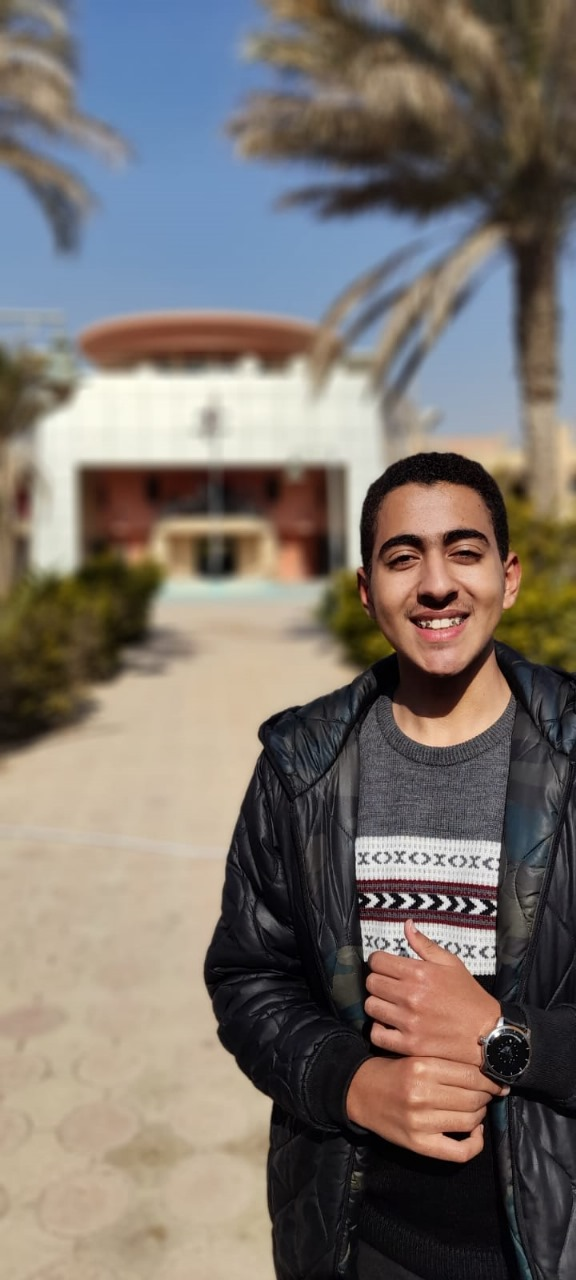
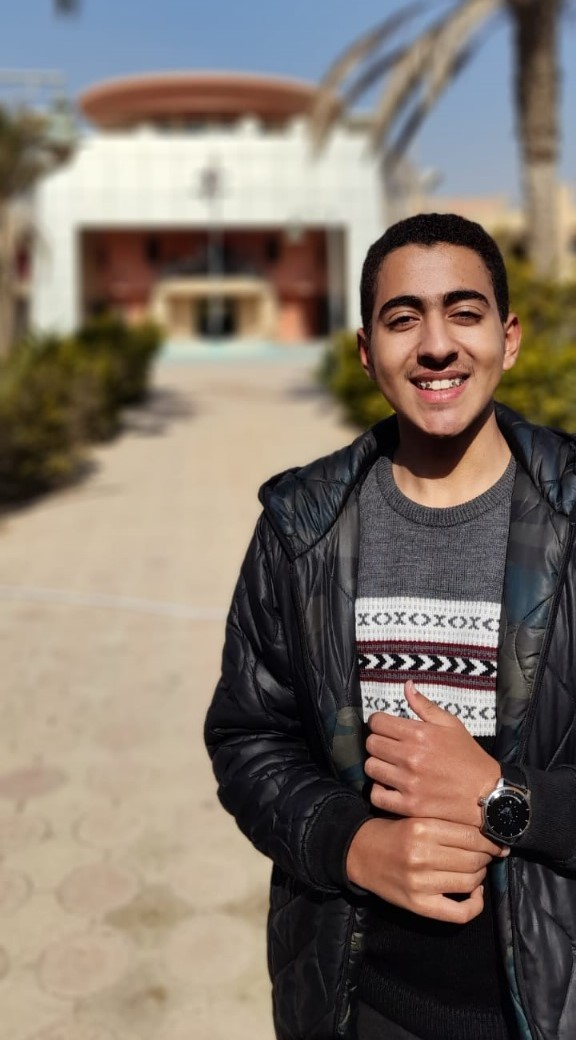
team page

diff --git a/stage/team.html b/stage/team.html
@@ -1,0 +1,266 @@
+<!DOCTYPE html>
+<html lang="en">
+
+<head>
+  <!-- Meta -->
+  <meta charset="UTF-8" />
+  <meta name="author" content="GH" />
+  <meta name="copyright" content="" />
+  <meta name="description" content="The Official website for Gharbiya STEM High School in Tanta" />
+  <meta http-equiv="X-UA-Compatible" content="IE=edge" />
+  <meta name="viewport" content="width=device-width, initial-scale=1.0" />
+  <title>Our Team</title>
+  <!-- Stylesheets -->
+  <link rel="stylesheet" href="./fonts/fontawesome.css" />
+  <link rel="stylesheet" href="./css/bootstrap.min.css" />
+  <link rel="stylesheet" href="./css/libs/aos.css" />
+  <link rel="stylesheet" href="./css/main.css" />
+  <link rel="icon" type="image/x-icon" href="./imgs/logo.png" />
+</head>
+
+<body>
+  <!-- START Navbar -->
+  <nav class="navbar navbar-expand-lg bg-body-tertiary ">
+    <div class="container-fluid">
+      <a class="logo ff-exo-2 navbar-brand fw-bold" href="./">
+        <img src="./imgs/logo.png" alt="Logo" />
+        Gravitational Wave
+      </a>
+      <button class="navbar-toggler" type="button" data-bs-toggle="collapse" data-bs-target="#navbarNavAltMarkup"
+        aria-controls="navbarNavAltMarkup" aria-expanded="false" aria-label="Toggle navigation">
+        <i class="fa-solid fa-bars text-light"></i>
+      </button>
+      <div class="collapse navbar-collapse justify-content-end" id="navbarNavAltMarkup">
+        <div class="navbar-nav links ps-3 ps-md-0">
+          <a class="nav-link  text-decoration-underline" aria-current="page" href="./">Home</a>
+          <a class="nav-link  text-decoration-underline" href="./wave.html">Our Wave</a>
+          <a class="nav-link  text-decoration-underline active" href="./program.html">Our Program</a>
+          <a class="nav-link  text-decoration-underline" href="./team.html">Meet the Team</a>
+        </div>
+      </div>
+    </div>
+  </nav>
+  <!-- END Navbar -->
+
+  <main class="main team">
+    <h2 class="text-center fs-1 mb-5">Meet The Team</h2>
+
+    <div class="container">
+      <div class="row row-cols-1 row-cols-sm-2 row-cols-md-3 g-5">
+        <div class="col">
+          <div class="card bg-transparent">
+            <img src="./imgs/team/madeline-wade.jpeg" class="card-img-top rounded-4" alt="Madeline Wade">
+            <div class="card-body mt-4 primary-bg text-light text-start ps-4 ps-sm-5 rounded-4">
+              <p class="card-title ff-rajdhani fs-4 mb-0">Madeline Wade</p>
+              <p class="card-text ff-rajdhani fs-5">Supervisor</p>
+            </div>
+            <ul class="social-links mt-4 d-flex justify-content-center gap-3">
+              <li>
+                <a href="mailto:" target="_blank" title="Email" rel="noopener noreferrer"><i
+                    class="fa-solid fa-xl fa-envelope"></i></a>
+              </li>
+              <li>
+                <a href="#" target="_blank" title="Linked in" rel="noopener noreferrer"><i
+                    class="fab fa-xl fa-linkedin-in"></i></a>
+              </li>
+              <li>
+                <a href="#" target="_blank" title="Facebook" rel="noopener noreferrer"><i
+                    class="fab fa-xl fa-facebook"></i></a>
+              </li>
+              <li>
+                <a href="#" target="_blank" title="Instagram" rel="noopener noreferrer"><i
+                    class="fab fa-xl fa-instagram"></i></a>
+              </li>
+            </ul>
+          </div>
+        </div>
+        <div class="col">
+          <div class="card bg-transparent">
+            <img src="./imgs/team/omar-shalaby.jpeg" class="card-img-top rounded-4" alt="Omar Shalaby">
+            <div class="card-body mt-4 primary-bg text-light text-start ps-4 ps-sm-5 rounded-4">
+              <p class="card-title ff-rajdhani fs-4 mb-0">Omar Shalaby</p>
+              <p class="card-text  ff-rajdhani fs-5">Founder</p>
+            </div>
+            <ul class="social-links mt-4 d-flex justify-content-center gap-3">
+              <li>
+                <a href="mailto:" target="_blank" title="Email" rel="noopener noreferrer"><i
+                    class="fa-solid fa-xl fa-envelope"></i></a>
+              </li>
+              <li>
+                <a href="#" target="_blank" title="Linked in" rel="noopener noreferrer"><i
+                    class="fab fa-xl fa-linkedin-in"></i></a>
+              </li>
+              <li>
+                <a href="#" target="_blank" title="Facebook" rel="noopener noreferrer"><i
+                    class="fab fa-xl fa-facebook"></i></a>
+              </li>
+              <li>
+                <a href="#" target="_blank" title="Instagram" rel="noopener noreferrer"><i
+                    class="fab fa-xl fa-instagram"></i></a>
+              </li>
+            </ul>
+          </div>
+        </div>
+        <div class="col">
+          <div class="card bg-transparent">
+            <img src="./imgs/team/ahmed-ibrahim.jpeg" class="card-img-top rounded-4" alt="Ahmed Ibrahim">
+            <div class="card-body mt-4 primary-bg text-light text-start ps-4 ps-sm-5 rounded-4">
+              <p class="card-title ff-rajdhani fs-4 mb-0">Ahmed Ibrahim</p>
+              <p class="card-text  ff-rajdhani fs-5">Co-founder</p>
+            </div>
+            <ul class="social-links mt-4 d-flex justify-content-center gap-3">
+              <li>
+                <a href="mailto:" target="_blank" title="Email" rel="noopener noreferrer"><i
+                    class="fa-solid fa-xl fa-envelope"></i></a>
+              </li>
+              <li>
+                <a href="#" target="_blank" title="Linked in" rel="noopener noreferrer"><i
+                    class="fab fa-xl fa-linkedin-in"></i></a>
+              </li>
+              <li>
+                <a href="#" target="_blank" title="Facebook" rel="noopener noreferrer"><i
+                    class="fab fa-xl fa-facebook"></i></a>
+              </li>
+              <li>
+                <a href="#" target="_blank" title="Instagram" rel="noopener noreferrer"><i
+                    class="fab fa-xl fa-instagram"></i></a>
+              </li>
+            </ul>
+          </div>
+        </div>
+        <div class="col">
+          <div class="card bg-transparent">
+            <img src="./imgs/team/yigithan-akkus.jpeg" class="card-img-top rounded-4" alt="Yigithan Akkus">
+            <div class="card-body mt-4 primary-bg text-light text-start ps-4 ps-sm-5 rounded-4">
+              <p class="card-title ff-rajdhani fs-4 mb-0">Yigithan Akkus</p>
+              <p class="card-text  ff-rajdhani fs-5">Academic Mentor</p>
+            </div>
+            <ul class="social-links mt-4 d-flex justify-content-center gap-3">
+              <li>
+                <a href="mailto:" target="_blank" title="Email" rel="noopener noreferrer"><i
+                    class="fa-solid fa-xl fa-envelope"></i></a>
+              </li>
+              <li>
+                <a href="#" target="_blank" title="Linked in" rel="noopener noreferrer"><i
+                    class="fab fa-xl fa-linkedin-in"></i></a>
+              </li>
+              <li>
+                <a href="#" target="_blank" title="Facebook" rel="noopener noreferrer"><i
+                    class="fab fa-xl fa-facebook"></i></a>
+              </li>
+              <li>
+                <a href="#" target="_blank" title="Instagram" rel="noopener noreferrer"><i
+                    class="fab fa-xl fa-instagram"></i></a>
+              </li>
+            </ul>
+          </div>
+        </div>
+        <div class="col">
+          <div class="card bg-transparent">
+            <img src="./imgs/team/mohamed-hossam.jpeg" class="card-img-top rounded-4" alt="Mohamed Hossam">
+            <div class="card-body mt-4 primary-bg text-light text-start ps-4 ps-sm-5 rounded-4">
+              <p class="card-title ff-rajdhani fs-4 mb-0">Mohamed Hossam</p>
+              <p class="card-text  ff-rajdhani fs-5">Academic Mentor</p>
+            </div>
+            <ul class="social-links mt-4 d-flex justify-content-center gap-3">
+              <li>
+                <a href="mailto:" target="_blank" title="Email" rel="noopener noreferrer"><i
+                    class="fa-solid fa-xl fa-envelope"></i></a>
+              </li>
+              <li>
+                <a href="#" target="_blank" title="Linked in" rel="noopener noreferrer"><i
+                    class="fab fa-xl fa-linkedin-in"></i></a>
+              </li>
+              <li>
+                <a href="#" target="_blank" title="Facebook" rel="noopener noreferrer"><i
+                    class="fab fa-xl fa-facebook"></i></a>
+              </li>
+              <li>
+                <a href="#" target="_blank" title="Instagram" rel="noopener noreferrer"><i
+                    class="fab fa-xl fa-instagram"></i></a>
+              </li>
+            </ul>
+          </div>
+        </div>
+        <div class="col">
+          <div class="card bg-transparent">
+            <img src="./imgs/team/ahmed-saafan.jpeg" class="card-img-top rounded-4" alt="Ahmed Saafan">
+            <div class="card-body mt-4 primary-bg text-light text-start ps-4 ps-sm-5 rounded-4">
+              <p class="card-title ff-rajdhani fs-4 mb-0">Ahmed Saafan</p>
+              <p class="card-text  ff-rajdhani fs-5">Academic Mentor</p>
+            </div>
+            <ul class="social-links mt-4 d-flex justify-content-center gap-3">
+              <li>
+                <a href="mailto:" target="_blank" title="Email" rel="noopener noreferrer"><i
+                    class="fa-solid fa-xl fa-envelope"></i></a>
+              </li>
+              <li>
+                <a href="#" target="_blank" title="Linked in" rel="noopener noreferrer"><i
+                    class="fab fa-xl fa-linkedin-in"></i></a>
+              </li>
+              <li>
+                <a href="#" target="_blank" title="Facebook" rel="noopener noreferrer"><i
+                    class="fab fa-xl fa-facebook"></i></a>
+              </li>
+              <li>
+                <a href="#" target="_blank" title="Instagram" rel="noopener noreferrer"><i
+                    class="fab fa-xl fa-instagram"></i></a>
+              </li>
+            </ul>
+          </div>
+        </div>
+      </div>
+    </div>
+  </main>
+
+  <!-- START Footer -->
+  <footer class="footer primary-bg ff-exo-2">
+    <div class="container py-3">
+      <header class="head-footer text-center">
+        <h2 class="mb-0 text-uppercase fw-light">Step Into Fourth Dimension</h2>
+        <a class="fs-2 fw-bolder ff-exo-2" href="./">Gravitational Wave</a>
+      </header>
+      <div class="body-footer pt-5 pb-4">
+        <div class="row justify-content-md-evenly">
+          <div class="col-sm-6 col-lg-3">
+            <div class="footer-contact d-md-flex">
+              <h3 class="heading">
+                Contact Information:
+              </h3>
+              <div class="text border-start border-2 ms-3 ps-2">
+                <p class="ff-exo-2">GW Founder: <br /> Omar Shalaby</p>
+                <a href="mailto:omar@gravitationalwave.net" class="ff-exo-2">omar@gravitationalwave.net</a>
+                <p class="ff-exo-2">GW Co-Founder: <br /> Ahmed Ibrahim</p>
+              </div>
+            </div>
+          </div>
+          <div class="col-sm-6 col-lg-3 mt-4 mt-md-0">
+            <div class="footer-links d-md-flex">
+              <h3 class="heading">Quick Links:</h3>
+              <ul class="text border-start border-2 ms-3 ps-2">
+                <li><a class="text-decoration-underline active" aria-current="page" href="./">Home</a></li>
+                <li><a class="text-decoration-underline" href="./wave.html">Our Wave</a></li>
+                <li><a class="text-decoration-underline" href="./program.html">Our Program</a></li>
+                <li><a class="text-decoration-underline" href="./team.html">Meet the Team</a></li>
+              </ul>
+            </div>
+          </div>
+        </div>
+      </div>
+    </div>
+    <div class="bottom-footer secondary-bg py-2 px-3 text-center">
+      Copyright &copy; All rights reserved @<span class="date"></span>
+      — Web Development & UI/UX Team: Abdelrahman Aboueissa | Anand Ajith | Amjad Mounir | Kareem Wael
+    </div>
+  </footer>
+  <!-- END Footer -->
+
+  <!-- Scripts -->
+  <script src="./js/libs/aos.js"></script>
+  <script src="./js/libs/aos.config.js"></script>
+  <script src="./js/libs/bootstrap.bundle.min.js"></script>
+  <script src="./fonts/font-awesome.min.js"></script>
+  <script src="./js/main.js"></script>
+</body>
+
+</html>

diff --git a/stage/css/main.css b/stage/css/main.css
@@ -1,2 +1,2 @@
-@import url("https://fonts.googleapis.com/css2?family=Exo+2:ital,wght@0,100..900;1,100..900&family=PT+Serif:ital@0;1&family=Rajdhani&display=swap");.w-fit-content{width:-webkit-fit-content;width:-moz-fit-content;width:fit-content}.text-justify{text-align:justify}.primary-bg{background-color:hsl(219,67%,12%)}.secondary-bg{background-color:hsl(180,10%,6%)}.ff-rajdhani{font-family:"Rajdhani",sans-serif}.ff-pt-serif{font-family:"PT Serif",serif}.ff-exo-2{font-family:"Exo 2",system-ui}.primary-btn,.secondary-btn{display:inline-block;padding:0.3rem 1.5rem;border-radius:1rem;font-size:1.5rem;font-weight:bold;font-family:"Exo 2",system-ui}.primary-btn{color:black;background-color:#ddd;text-decoration:underline;-webkit-transition:0.3s;transition:0.3s}.primary-btn:hover{-webkit-transform:scale(1.1);transform:scale(1.1);background-color:#fff}.primary-btn.primary-btn-center{width:-webkit-fit-content;width:-moz-fit-content;width:fit-content;display:block;margin-left:auto;margin-right:auto}.secondary-btn{border:3px solid #DDD;background-color:transparent}.main-title{font-size:2.5rem;font-family:"Exo 2",system-ui;width:-webkit-fit-content;width:-moz-fit-content;width:fit-content;margin:0 auto;position:relative}@media (max-width:992px){.main-title{font-size:2rem}}.main-title:after,.main-title:before{content:"";position:absolute;top:50%;width:50%;height:3px;background-color:#fff}.main-title:before{left:calc(-50% - 20px)}.main-title:after{right:calc(-50% - 20px)}*,:after,:before{-webkit-box-sizing:border-box;box-sizing:border-box}html{scroll-behavior:smooth;overflow-x:hidden}html *{outline:none}html body{color:white!important;font-size:1.25rem;font-family:"Rajdhani",sans-serif}html h1,html h2,html h3,html h4,html h5,html h6{font-family:"Exo 2",system-ui;font-weight:bold}html p{font-family:"PT Serif",serif}html a{color:inherit;text-decoration:none}html ul{margin:0;padding:0;list-style:none}html img{width:100%;height:100%}html button{border:none;cursor:pointer;background-color:transparent}.main{padding:3rem 1rem;overflow-x:hidden;background-image:url("./../imgs/bg.jpg");background-size:cover;position:relative}.main:before{content:"";position:absolute;top:0;left:0;width:100%;height:100%;background-color:rgba(0,0,0,0.7)}.main>*{position:relative}body .navbar{background-color:hsl(219,67%,12%)!important}body .navbar .logo{color:#ffffff!important}body .navbar .logo img{width:50px;height:50px}body .navbar .links a{color:white!important}body .home-landing{min-height:calc(100vh - 76px);background-image:url("./../imgs/landing.jpeg");background-size:cover;background-position:center;position:relative}@media (max-width:768px){body .home-landing{background-position:left}}body .home-landing:before{content:"";position:absolute;top:0;left:0;width:100%;height:100%;background-color:rgba(0,0,0,0.4)}body .home-landing .text{position:relative}body .main.home .services{counter-set:services}body .main.home .services .box{counter-increment:services;position:relative}body .main.home .services .box .counter:before{content:"0" counter(services);font-weight:bold;font-size:2rem;border-right:1px solid white;padding-right:0.75rem;margin-right:0.75rem}body .main.program .phase-one ul{list-style:disc inside;padding:0 2rem}body .main.program .phase-one ul li{padding:0.5rem 0}body .main.program .phase-one ul>li:last-child{margin-top:1rem}@media (min-width:767.98px){body .main.program .phase-one ul>li:last-child{padding-left:2rem;border-left:2px solid white;margin-top:0}}body .main.program .phase-two{counter-set:hello}body .main.program .phase-two .row>*{counter-increment:hello}body .main.program .phase-two .row>:last-child{margin-top:1rem}@media (min-width:767.98px){body .main.program .phase-two .row>:last-child{border-left:2px solid white;margin-top:0}}body .main.program .phase-two .row .counter{-webkit-transform:translateY(-10px);transform:translateY(-10px)}body .main.program .phase-two .row .counter:before{content:"0" counter(hello);font-size:2.5rem;font-weight:bold;font-family:"Exo 2",system-ui;margin-right:1.25rem}
+@import url("https://fonts.googleapis.com/css2?family=Exo+2:ital,wght@0,100..900;1,100..900&family=PT+Serif:ital@0;1&family=Rajdhani&display=swap");.w-fit-content{width:-webkit-fit-content;width:-moz-fit-content;width:fit-content}.text-justify{text-align:justify}.primary-bg{background-color:hsl(219,67%,12%)}.secondary-bg{background-color:hsl(180,10%,6%)}.ff-rajdhani{font-family:"Rajdhani",sans-serif}.ff-pt-serif{font-family:"PT Serif",serif}.ff-exo-2{font-family:"Exo 2",system-ui}.primary-btn,.secondary-btn{display:inline-block;padding:0.3rem 1.5rem;border-radius:1rem;font-size:1.5rem;font-weight:bold;font-family:"Exo 2",system-ui}.primary-btn{color:black;background-color:#ddd;text-decoration:underline;-webkit-transition:0.3s;transition:0.3s}.primary-btn:hover{-webkit-transform:scale(1.1);transform:scale(1.1);background-color:#fff}.primary-btn.primary-btn-center{width:-webkit-fit-content;width:-moz-fit-content;width:fit-content;display:block;margin-left:auto;margin-right:auto}.secondary-btn{border:3px solid #DDD;background-color:transparent}.main-title{font-size:2.5rem;font-family:"Exo 2",system-ui;width:-webkit-fit-content;width:-moz-fit-content;width:fit-content;margin:0 auto;position:relative}@media (max-width:992px){.main-title{font-size:2rem}}.main-title:after,.main-title:before{content:"";position:absolute;top:50%;width:50%;height:3px;background-color:#fff}.main-title:before{left:calc(-50% - 20px)}.main-title:after{right:calc(-50% - 20px)}.social-links li:hover a{background-color:#fff;-webkit-transform:scale(1.2);transform:scale(1.2)}.social-links li:hover a svg[class*=discord]{color:#6c82cf}.social-links li:hover a svg[class*=twitter]{color:#28a0d5}.social-links li:hover a svg[class*=facebook]{color:#1771e6}.social-links li:hover a svg[class*=instagram]{color:#5865f2}.social-links li:hover a svg[class*=linked]{color:#0077b5}.social-links li a{display:block;padding:10px;border-radius:50%;-webkit-transition:all 0.3s;transition:all 0.3s;background-color:rgba(255,255,255,0.8)}.social-links li a svg{color:#222;-webkit-transition:color 0.3s;transition:color 0.3s}*,:after,:before{-webkit-box-sizing:border-box;box-sizing:border-box}html{scroll-behavior:smooth;overflow-x:hidden}html *{outline:none}html body{color:white!important;font-size:1.25rem;font-family:"Rajdhani",sans-serif}html h1,html h2,html h3,html h4,html h5,html h6{font-family:"Exo 2",system-ui;font-weight:bold}html p{font-family:"PT Serif",serif}html a{color:inherit;text-decoration:none}html ul{margin:0;padding:0;list-style:none}html img{width:100%;height:100%}html button{border:none;cursor:pointer;background-color:transparent}.main{padding:3rem 1rem;overflow-x:hidden;background-image:url("./../imgs/bg.jpg");background-size:cover;position:relative}.main:before{content:"";position:absolute;top:0;left:0;width:100%;height:100%;background-color:rgba(0,0,0,0.7)}.main>*{position:relative}body .navbar{background-color:hsl(219,67%,12%)!important}body .navbar .logo{color:#ffffff!important}body .navbar .logo img{width:50px;height:50px}body .navbar .links a{color:white!important}body .home-landing{min-height:calc(100vh - 76px);background-image:url("./../imgs/landing.jpeg");background-size:cover;background-position:center;position:relative}@media (max-width:768px){body .home-landing{background-position:left}}body .home-landing:before{content:"";position:absolute;top:0;left:0;width:100%;height:100%;background-color:rgba(0,0,0,0.4)}body .home-landing .text{position:relative}body .main.home .services{counter-set:services}body .main.home .services .box{counter-increment:services;position:relative}body .main.home .services .box .counter:before{content:"0" counter(services);font-weight:bold;font-size:2rem;border-right:1px solid white;padding-right:0.75rem;margin-right:0.75rem}body .main.program .phase-one ul{list-style:disc inside;padding:0 2rem}body .main.program .phase-one ul li{padding:0.5rem 0}body .main.program .phase-one ul>li:last-child{margin-top:1rem}@media (min-width:767.98px){body .main.program .phase-one ul>li:last-child{padding-left:2rem;border-left:2px solid white;margin-top:0}}body .main.program .phase-two{counter-set:hello}body .main.program .phase-two .row>*{counter-increment:hello}body .main.program .phase-two .row>:last-child{margin-top:1rem}@media (min-width:767.98px){body .main.program .phase-two .row>:last-child{border-left:2px solid white;margin-top:0}}body .main.program .phase-two .row .counter{-webkit-transform:translateY(-10px);transform:translateY(-10px)}body .main.program .phase-two .row .counter:before{content:"0" counter(hello);font-size:2.5rem;font-weight:bold;font-family:"Exo 2",system-ui;margin-right:1.25rem}body .main.team .card img{width:100%}
 /*# sourceMappingURL=main.css.map */

diff --git a/stage/css/sass/_components.scss b/stage/css/sass/_components.scss
@@ -46,7 +46,6 @@
 
   $width: -50%;
   &::before, &::after {
-
     content: '';
     position: absolute;
     top: 50%;
@@ -60,5 +59,41 @@
   &::after {
     right: calc($width - 20px);
   }
+}
 
+.social-links {
+  li {
+    &:hover a {
+      background-color: #fff;
+      transform: scale(1.2);
+
+      svg[class*="discord"] {
+        color: $discord;
+      }
+      svg[class*="twitter"] {
+        color: $twitter;
+      }
+      svg[class*="facebook"] {
+        color: $facebook;
+      }
+      svg[class*="instagram"] {
+        color: $instagram;
+      }
+      svg[class*="linked"] {
+        color: $linkedin;
+      }
+    }
+    a {
+      display: block;
+      padding: 10px;
+      border-radius: 50%;
+      transition: all 0.3s;
+      background-color: rgba(255, 255, 255, 80%);
+
+      svg {
+        color: #222;
+        transition: color 0.3s;
+      }
+    }
+  }
 }
